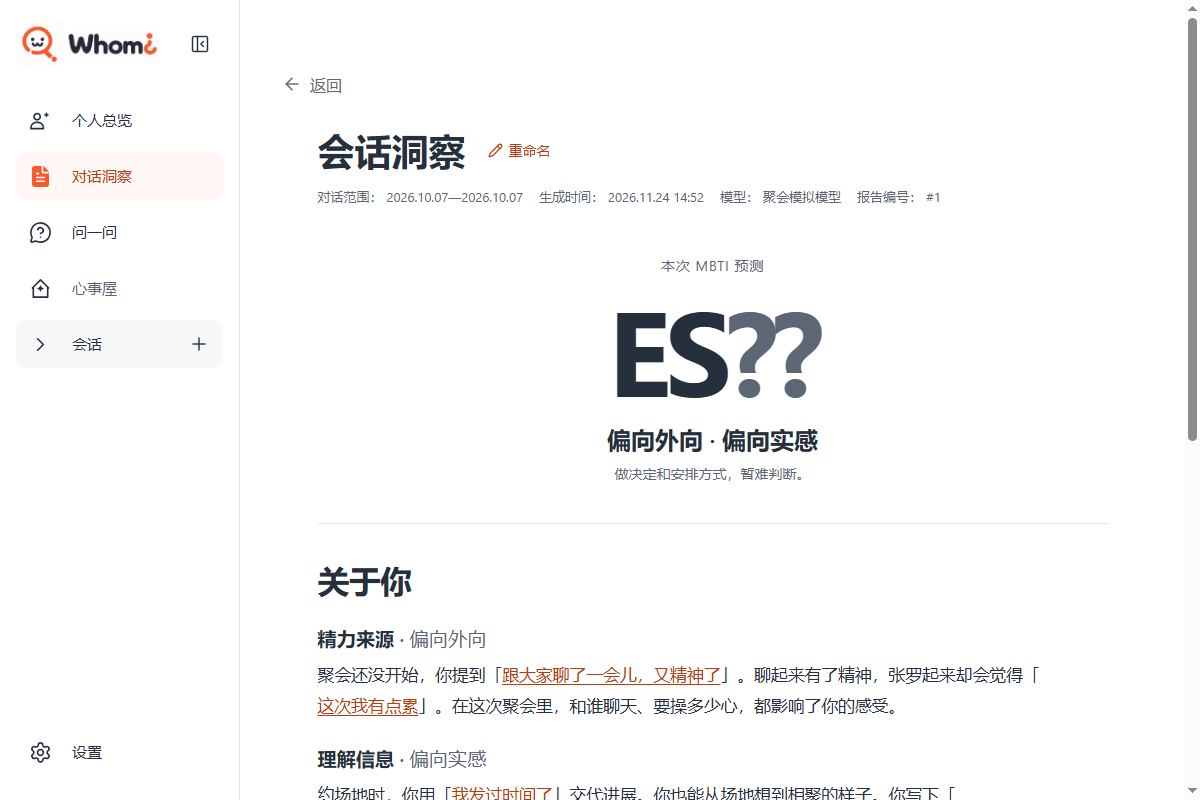
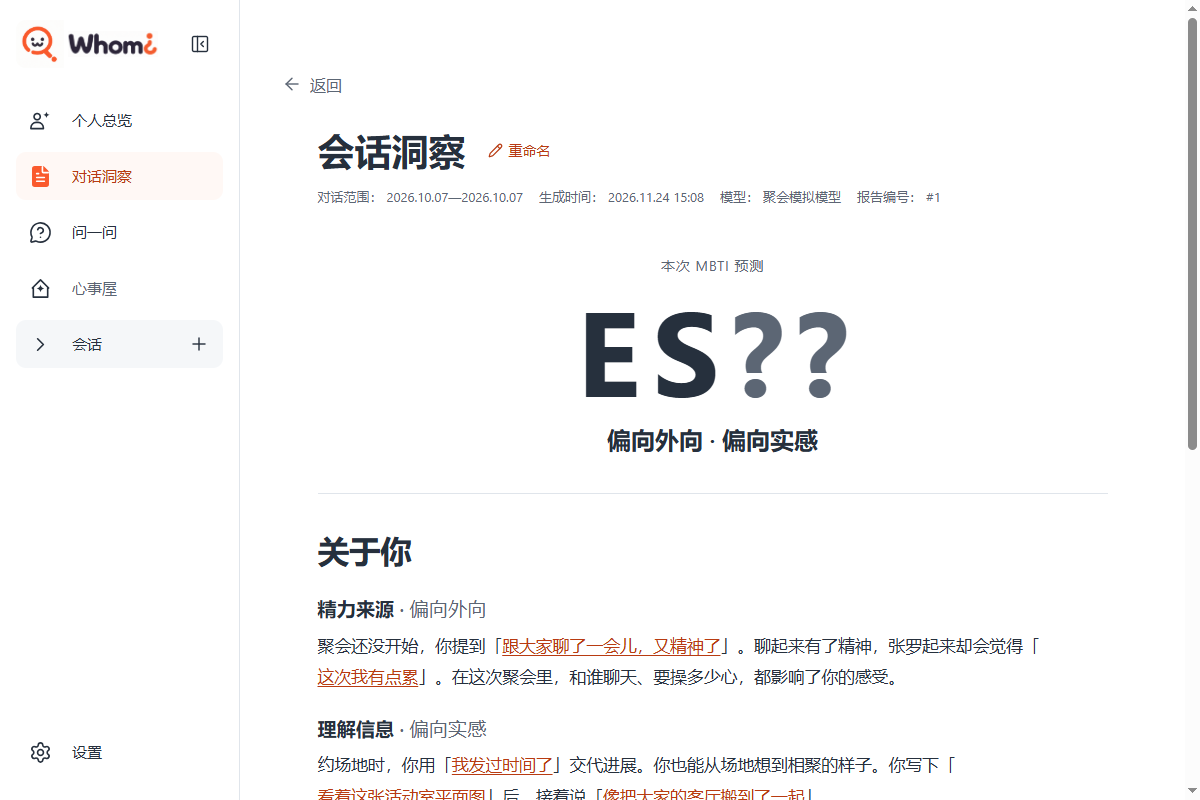
fix(insights): 移除预测下方重复的未定维度说明

diff --git a/src/components/insights/insights.css b/src/components/insights/insights.css
@@ -86,8 +86,7 @@ button.insight-report-row:active { background: var(--pressed); }
 .insight-prose { font-size: clamp(16px, 1.4vw, 18px); line-height: 1.85; overflow-wrap: anywhere; }
 .insight-prose p { margin: 0; white-space: pre-wrap; }
 .insight-prediction { text-align: center; padding: clamp(12px, 2vw, 28px) 0 clamp(24px, 3vw, 36px); border-bottom: 1px solid var(--line); }
-.insight-prediction-label, .insight-prediction-limit { font-size: 14px; color: var(--text-muted); }
-.insight-prediction-label { letter-spacing: .06em; }
+.insight-prediction-label { font-size: 14px; color: var(--text-muted); letter-spacing: .06em; }
 .insight-prediction-label abbr { text-decoration: none; }
 .insight-prediction-letters {
   display: flex; justify-content: center; gap: .1em;
@@ -95,7 +94,6 @@ button.insight-report-row:active { background: var(--pressed); }
 }
 .insight-prediction-unknown { color: var(--text-muted); }
 .insight-prediction-meaning { font-size: clamp(19px, 2vw, 26px); font-weight: 600; line-height: 1.5; }
-.insight-prediction p.insight-prediction-limit { margin-top: 4px; }
 .insight-prediction + .insight-chapter { padding-top: clamp(24px, 3vw, 34px); }
 .insight-chapter + .insight-chapter { margin-top: 32px; padding-top: 28px; border-top: 1px solid var(--line); }
 .insight-chapter h2 { margin: 0 0 14px; font-size: clamp(26px, 2.7vw, 34px); line-height: 1.35; letter-spacing: -.035em; }

diff --git a/src/components/insights/insight-article.tsx b/src/components/insights/insight-article.tsx
@@ -28,16 +28,12 @@ function dimensionRows(judgments: InsightJudgment[]) {
 
 function Prediction({ rows }: { rows: ReturnType<typeof dimensionRows> }) {
   const known = rows.filter(row => row.direction)
-  const unknown = rows.filter(row => !row.direction).map(row => row.name)
-  const last = unknown.pop()
-  const unknownNames = unknown.length ? unknown.join('、') + '和' + last : last
   return <section className="insight-prediction" aria-label="MBTI 人格倾向">
     <p className="insight-prediction-label">本次 <abbr title="迈尔斯–布里格斯性格类型指标">MBTI</abbr> 预测</p>
     <strong className="insight-prediction-letters" aria-label={'本次会话的倾向 ' + rows.map(row => row.direction ?? '?').join('')}>
       {rows.map(({ axis, direction }) => <span key={axis} className={direction ? undefined : 'insight-prediction-unknown'}>{direction ?? '?'}</span>)}
     </strong>
     {!!known.length && <p className="insight-prediction-meaning">{known.map(row => directionLabel(row.axis, row.direction)).join(' · ')}</p>}
-    {unknownNames && <p className="insight-prediction-limit">{unknownNames}，暂难判断。</p>}
   </section>
 }
 

diff --git a/docs/planning/ideas/004-conversation-insights.md b/docs/planning/ideas/004-conversation-insights.md
@@ -6,6 +6,7 @@
 - 下一步　维护者可在私人测试窗口打开 997 条聊天生成的报告，对照引用原文评阅。两次模型请求被拒时，弹窗和日志只给出通用错误，此项已单独建单，留待后续处理。[异常提示与日志工单 #46](https://github.com/StarryJia/whomi/issues/46)
 - 本轮分支　`codex/issue-35-pi-insights`，基线为远端 main 的 `9ddeefc`。
 - 2026-11-24 报告阅读页 A 版　维护者选定居中大号预测，并授权继续在本分支实现。验收场景是打开报告先看到预测及未确定维度，在四维分析中分别点击依据和反例，关闭原文后继续读刚才的句子。[报告阅读页设计](../../designs/conversation-insights/README.md)
+- 2026-11-24 首屏排版微调，待维护者验收。桌面测试在 1200 × 800 和 960 × 640 的窗口打开同一份合成报告，四个字符居中排列，`ES??` 下方只显示「偏向外向 · 偏向实感」。两项暂难判断的维度可在「关于你」逐项阅读，正文引文可打开对应原话。[实测截图](../../designs/conversation-insights/README.md#已确认报告阅读页)
 - A 版首轮本机验收　前端与后端全量测试同时运行，各有 3 项失败。五项运行超时，一项短回答滚动断言失败，首次失败的触发条件尚未确定。分开运行后，前端 674 项、后端 857 项通过。桌面首轮 15 项中通过 13 项，另两项的断言将列表保存的来源与打开详情后补出的摘录直接作了深比较，已分别核对列表与详情。首轮桌面日志、跟踪和截图保存在本地 `artifacts/issue-35/2026-11-24T06-31-42-113Z/`。
 - A 版已实现，待维护者验收阅读效果。最终类型检查、桌面构建、前端 674 项与后端 858 项全量测试通过。桌面复跑 15 项通过，覆盖 8 条与 4,600 条合成聊天、暂停恢复、失败重试和窄窗口。在聚会示例中，点击同一消息里的两处引文，弹窗会分别高亮点中的短句，按 Esc 回到相应引文。没有四维判断的报告仍按原有两节阅读。桌面日志在本地 `artifacts/issue-35/2026-11-24T06-49-27-436Z/`。下一步可从「对话洞察」打开自己的报告，核对开头的预测和正文中的原话。[首屏、窄窗口和原文截图](../../designs/conversation-insights/README.md)
 - 2026-11-24 设计核对　997 条报告的原始交稿省略了对用户本人的四维观察。合成报告提供观察时可在总览按关系查看。另用两条消息复现了按编号带较长上文时，目标延迟到第 12 页才出现。[工具复例与人格倾向核对](../../research/pi-insights-issue-35-real-model.md#阅读工具与人格倾向的设计核对)

diff --git a/docs/designs/conversation-insights/README.md b/docs/designs/conversation-insights/README.md
@@ -1,6 +1,6 @@
 # 对话洞察 · 页面设计记录
 
-2026-11-24，维护者选定 A 版完整报告。标题和会话范围之后，居中显示本次 MBTI（迈尔斯–布里格斯性格类型指标）预测。例如示例报告显示 `EN??`，下方说明精力来源偏外向、理解信息偏直觉，做决定和安排方式暂难判断。历史报告没有四维观察时直接显示已有正文。
+2026-11-24，维护者选定 A 版完整报告。标题和会话范围之后，居中显示本次 MBTI（迈尔斯–布里格斯性格类型指标）预测，四个字符之间等距留白。例如示例报告显示 `EN??`，下方只写「偏向外向 · 偏向直觉」。想了解后两位为何是问号，可以接着阅读「关于你」中的「做决定」和「安排方式」。历史报告没有四维观察时直接显示已有正文。
 
 正文保留「关于你」「你们的相处」两个章节。四维判断作为「关于你」的小标题，倾向、其他解释和限制写入短段。以虚构的读书会为例，读者看到「聊完我反而有精神了」，接着读到另一天的「今天想自己静一会儿」。点击任一句可核对各自的消息和上下文，关闭后回到刚才的引文。报告页尾可以打开完整会话或回到开头。
 
